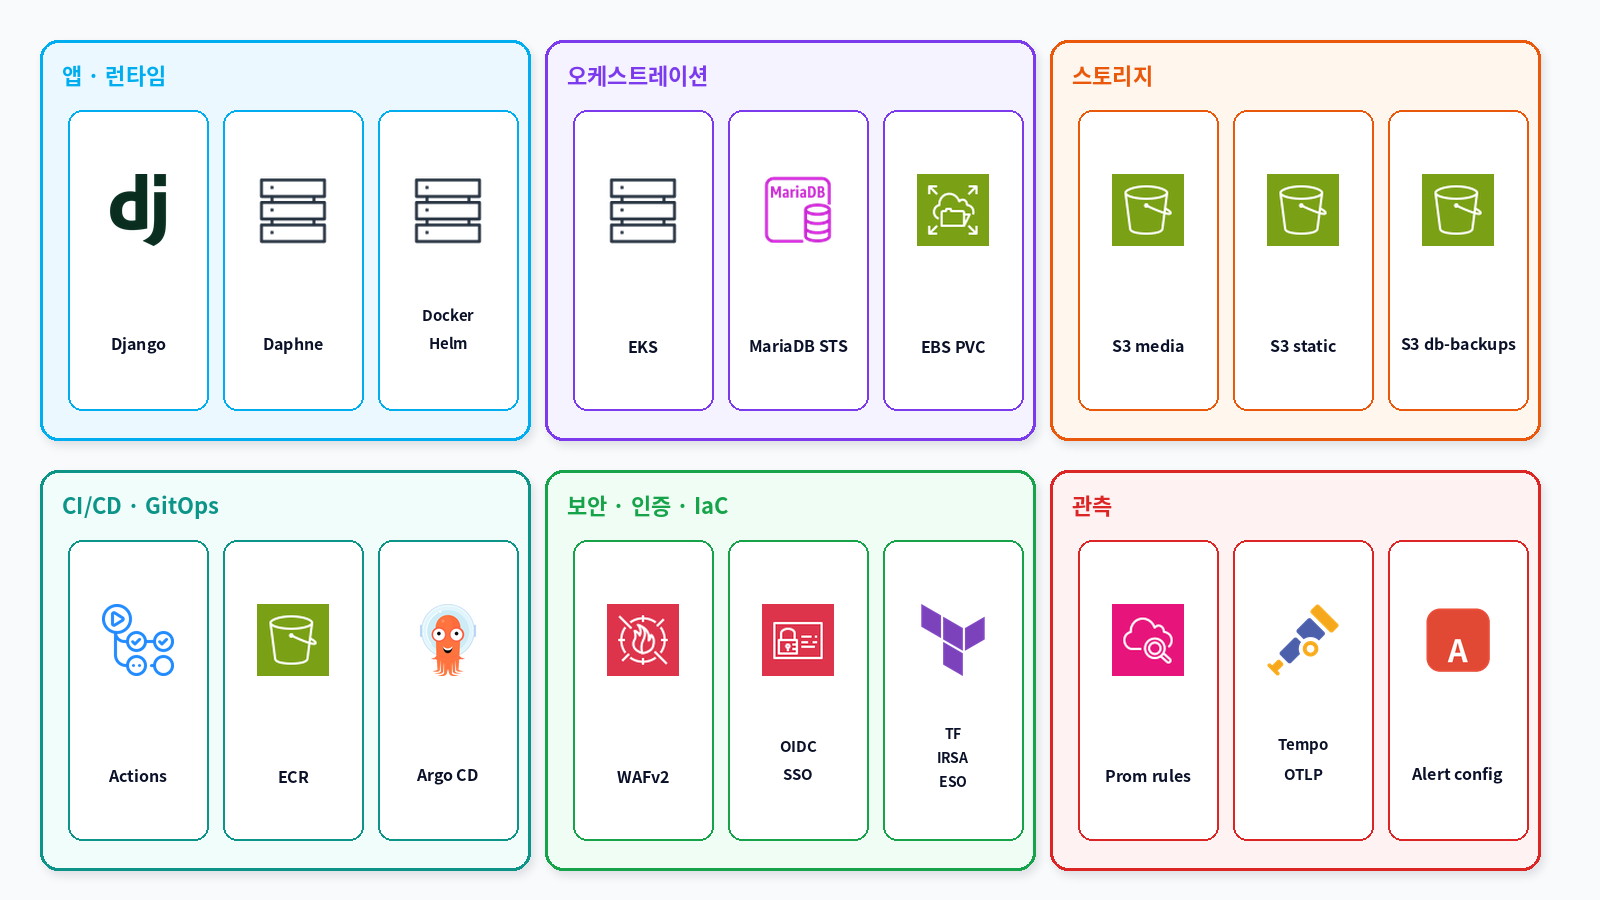
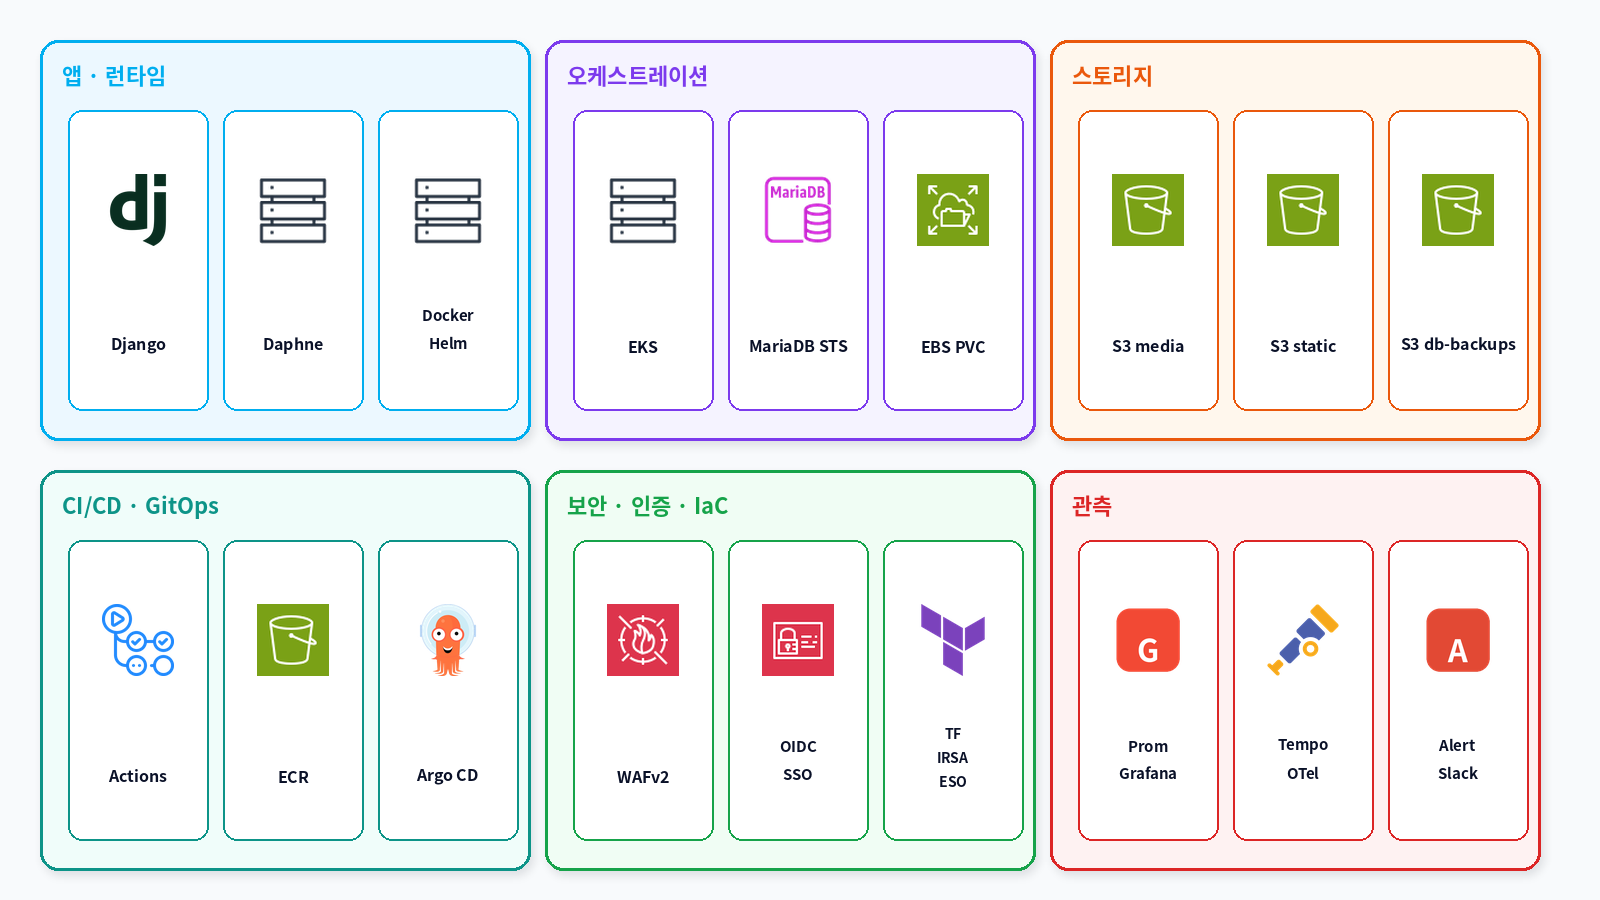
docs: restore verified observability outcomes

diff --git a/docs/presentation/make_aniverse_v1v2_ppt.py b/docs/presentation/make_aniverse_v1v2_ppt.py
@@ -299,7 +299,7 @@ def slide_v2_def(prs):
         (BLUE, "ALB · HTTPS · WAF", "ACM으로 HTTPS를 적용하고, ALB 앞 WAF에서 공격 요청과 과도한 요청을 걸러냅니다."),
         (GREEN, "EKS web / db Pod", "Django·Daphne는 Deployment로, MariaDB는 StatefulSet과 PVC로 운영합니다."),
         (ORANGE, "Actions → ECR → Argo", "OIDC로 이미지를 올리고, Git의 이미지 태그를 기준으로 Argo CD가 배포합니다."),
-        (PURPLE, "백업 · 관측", "DB는 S3에 백업하고, Prometheus·Loki·Tempo 설정으로 관측 경로를 구성했습니다."),
+        (PURPLE, "백업 · 관측", "DB는 S3에 백업하고, Prometheus·Loki·Tempo 데이터를 Grafana에서 확인했습니다."),
     ]
     for i, (color, title, body) in enumerate(feats):
         col, row = i % 2, i // 2
@@ -396,8 +396,8 @@ def slide_verify(prs):
         ("DB 데이터", "복구 후 목록 데이터 표시", "테이블 수 · 시드 행", "확인"),
         ("GitOps", "Git 태그와 배포 이미지 일치", "Actions · Argo CD", "확인"),
         ("미디어", "재구축 후 이미지 정상 표시", "S3 media 경로", "확인"),
-        ("관측", "로그·트레이스 전송 경로", "Loki · Tempo values", "구성"),
-        ("알림", "AlertManager Slack receiver", "설정 파일 · Secret", "구성"),
+        ("관측", "메트릭·로그·트레이스 조회", "Grafana · Loki · Tempo", "확인"),
+        ("알림", "AlertManager 알림 수신", "Slack 채널", "확인"),
     ]
     for i, (t, check, method, result) in enumerate(items):
         col, row = i % 3, i // 3
@@ -451,7 +451,7 @@ def slide_next(prs):
                 "시드 검증·운영 런북 자동화",
                 "계정 이관 체크리스트 정리",
                 "부하 병목(/works 지연)·Redis Timeout 해소",
-                "트레이스 수집 재검증 후 성능 개선으로 연결",
+                "Tempo로 찾은 병목을 성능 개선으로 연결",
             ],
         ),
     ]
@@ -484,8 +484,8 @@ def slide_load_trace(prs):
             "확인한 성과",
             [
                 "HPA로 web 파드 2 → 4 확장 확인",
-                "Django OTLP → Tempo 전송 경로 구성",
-                "AlertManager Slack receiver 구성",
+                "Tempo/Grafana 실제 요청 트레이스 조회",
+                "AlertManager → Slack 알림 수신",
             ],
         ),
         (
@@ -493,17 +493,17 @@ def slide_load_trace(prs):
             "발견한 병목",
             [
                 "/works/ 응답 최대 약 2.91초 (팀 측정)",
-                "수동 span은 Tempo 도달 · HTTP trace는 0건",
-                "ASGI extra 누락 원인 파악 후 보완",
+                "Tempo 트레이스로 병목 구간 확인",
+                "ASGI extra 보완 후 실제 trace 확인",
             ],
         ),
         (
             RED,
             "남은 과제",
             [
-                "보완 후 실제 HTTP trace 재검증",
                 "Redis TimeoutError 수정 후 재검증",
                 "병목 구간 쿼리·캐시 최적화",
+                "부하 시나리오와 WAF 한도 정합",
             ],
         ),
     ]
@@ -655,7 +655,7 @@ def slide_qa(prs):
     )
     add_para(
         roles.text_frame,
-        "강유민 — 서비스 UI · 콘텐츠 (커뮤니티 · 장터 · 창작)",
+        "강유민 — 창작마당 · Compute 파트",
         16,
         False,
         RGBColor(226, 232, 240),

diff --git a/docs/presentation/make_hybrid_diagrams.py b/docs/presentation/make_hybrid_diagrams.py
@@ -314,7 +314,7 @@ def make_roles():
     img = Image.new("RGBA", (W, H), BG + (255,))
     panels = [
         (50, CYAN, SOFT_BLUE, "Network / Compute", "서이 등", ["EKS · VPC", "Ingress / ALB", "노드 · NAT"], "vpc"),
-        (420, TEAL, SOFT_TEAL, "Container / DB / Observability", "윤주", ["Docker · Helm", "DB Pod · Backup", "Loki · Tempo 설정"], "rds_maria"),
+        (420, TEAL, SOFT_TEAL, "Container / DB / Observability", "윤주", ["Docker · Helm", "DB Pod · Backup", "Prom / Grafana / Loki"], "rds_maria"),
         (790, ORANGE, SOFT_ORANGE, "DevOps / GitOps", "현우", ["Actions · ECR", "Argo CD", "OIDC · 이관 복구"], "githubactions"),
         (1160, PURPLE, SOFT_PURPLE, "App / Product", "팀", ["Aniverse 서비스", "장터 · 창작", "커뮤니티"], "django"),
     ]
@@ -401,16 +401,16 @@ def make_observability():
     tile(img, 40, 180, 260, 400, "django", "EKS Pods", "web / db", CYAN, SOFT_BLUE, 64)
     tile(img, 350, 100, 260, 220, "cloudwatch", "Prometheus", "metrics", ORANGE, SOFT_ORANGE, 56)
     tile(img, 350, 360, 260, 220, "cloudwatch", "Loki + Alloy", "logs", TEAL, SOFT_TEAL, 56)
-    tile(img, 660, 180, 280, 400, "server", "Values", "manual deploy", GREEN, SOFT_GREEN, 72)
+    tile(img, 660, 180, 280, 400, "grafana", "Grafana", "dashboards", GREEN, SOFT_GREEN, 72)
     tile(img, 990, 100, 260, 220, "tempo", "Tempo · OTel", "traces", PURPLE, SOFT_PURPLE, 56)
     tile(img, 990, 360, 260, 220, "alertmanager", "AlertManager", "Slack", RED, SOFT_RED, 56)
     soft_card(img, (1280, 180, 1560, 580), r=18, fill=SOFT_BLUE, shadow=False)
     d = ImageDraw.Draw(img)
     d.rounded_rectangle((1280, 180, 1560, 580), radius=18, outline=CYAN, width=3)
-    center_text(d, "구성 범위", 1420, 280, fnt(26, True), CYAN)
+    center_text(d, "확인 결과", 1420, 280, fnt(26, True), CYAN)
     center_text(d, "메트릭·로그", 1420, 360, fnt(18), NAVY)
-    center_text(d, "Tempo 전송", 1420, 420, fnt(18), NAVY)
-    center_text(d, "Slack receiver", 1420, 480, fnt(18), NAVY)
+    center_text(d, "실제 trace 조회", 1420, 420, fnt(18), NAVY)
+    center_text(d, "Slack 알림 수신", 1420, 480, fnt(18), NAVY)
     d = ImageDraw.Draw(img)
     arrow_h(d, 300, 320, 350, NAVY)
     arrow_h(d, 300, 520, 350, NAVY)
@@ -502,9 +502,9 @@ def make_tech_stack_v2():
             RED,
             SOFT_RED,
             [
-                ("cloudwatch", "Prom rules"),
-                ("tempo", "Tempo · OTLP"),
-                ("alertmanager", "Alert config"),
+                ("grafana", "Prom · Grafana"),
+                ("tempo", "Tempo · OTel"),
+                ("alertmanager", "Alert · Slack"),
             ],
         ),
     ]

diff --git a/docs/presentation/make_hybrid_ppt.py b/docs/presentation/make_hybrid_ppt.py
@@ -212,7 +212,7 @@ def agenda(prs):
         ("02", "아키텍처 v1 · v2 · 왜 EKS"),
         ("03", "랩 → EKS 경로 · 워크로드"),
         ("04", "GitOps · 데이터 백업/복구"),
-        ("05", "관측 설정 (Prom rules / Loki / Tempo)"),
+        ("05", "관측 (Prom / Grafana / Loki / Tempo)"),
         ("06", "전환 이슈 · 계정 Block / 이관"),
         ("07", "Before / After · 다음"),
     ]
@@ -319,7 +319,7 @@ def data(prs):
 
 def observability(prs):
     s = blank(prs)
-    header(s, "5. 관측", "values·규칙 구성: Prometheus · Loki/Alloy · Tempo · AlertManager")
+    header(s, "5. 관측", "운영 확인: Grafana 조회 · 실제 요청 trace · AlertManager Slack 알림")
     put_img(s, "hybrid_07_observability.png")
     footer(s, 12)
 
@@ -392,7 +392,7 @@ def before_after(prs):
         "EKS + Argo CD",
         "DB Pod + PVC · SQL/CronJob 백업",
         "Actions → ECR → GitOps",
-        "Prom rules · Loki · Tempo 설정",
+        "Grafana · Loki · Tempo 관측",
     ]:
         add_para(right.text_frame, "·  " + line, 18, False, BODY, 18)
     footer(s, 16)

diff --git a/docs/presentation/SPEAKER_NOTES_V1V2.md b/docs/presentation/SPEAKER_NOTES_V1V2.md
@@ -17,7 +17,7 @@ PPT: `ppt/Aniverse_V1V2_발표_working.pptx`
 | 7 | V2 상세 ① | DB Pod, 배포 이미지 태그, 재구축 후 데이터 복구 |
 | 8 | V2 상세 ② | Zero-Key(OIDC·SSO) · WAF · DNS 유지 · 이관 한 줄 |
 | 9 | 검증 기준 | 확인/구성 기준 설명 · Tempo 포함 |
-| 10 | 기술 스택 | Argo 아이콘 · Prom rules/Tempo OTLP/Alert 설정 · TF·IRSA·ESO |
+| 10 | 기술 스택 | Argo 아이콘 · Prom/Grafana/Tempo/Alert · TF·IRSA·ESO |
 | 11 | 데이터 흐름 | PVC vs S3 · 시드(Git SQL) / 주기 백업(S3) 경로 |
 | 12 | 앞으로 보완할 점 | 트레이싱은 성과로 이동 · 발표·시연 칸 삭제 |
 | 13 | 부하 · 트레이싱 | HPA 2→4 · /works 병목 · Redis Timeout 재검증 |
@@ -37,7 +37,7 @@ PPT: `ppt/Aniverse_V1V2_발표_working.pptx`
 
 ## 13–16장 발표 멘트
 
-**13장 · 부하테스트·트레이싱** — 부하테스트에서 web 파드가 2개에서 4개로 늘어나는 것을 확인했습니다. 팀 측정에서 `/works/` 응답은 최대 약 2.91초였습니다. 수동 span은 Tempo에 도달했지만 실제 HTTP trace는 0건이어서 ASGI extra 누락을 보완했습니다. 실제 요청 trace와 Redis TimeoutError 재발 여부는 같은 부하 조건에서 다시 확인해야 합니다.
+**13장 · 부하테스트·트레이싱** — 부하테스트에서 web 파드가 2개에서 4개로 늘어나는 것을 확인했습니다. 팀 측정에서 `/works/` 응답은 최대 약 2.91초였고, ASGI extra를 보완한 뒤 Grafana에서 실제 요청 trace를 조회했습니다. AlertManager의 Slack 알림 수신도 확인했으며, Redis TimeoutError는 의존성 수정 후 같은 부하 조건에서 재검증할 예정입니다.
 **14장 · 현우** — 중지 검증, Argo Missing(SSA), 시드 행 검증  
 **15장 · 서이** — HPA replicas 충돌, Terraform 생성 순서, DB 비밀번호 로테이션  
 **16장 · 윤주** — 백업 0바이트, Alloy max-pods, Slack 웹훅
@@ -47,4 +47,4 @@ PPT: `ppt/Aniverse_V1V2_발표_working.pptx`
 - 김현우 — GitOps·CI/CD
 - 박서이 — EKS·네트워크·보안
 - 김윤주 — 컨테이너·DB·관측
-- 강유민 — 서비스 UI·콘텐츠
+- 강유민 — 창작마당·Compute 파트

diff --git a/docs/presentation/CONTENT_V1V2_working.md b/docs/presentation/CONTENT_V1V2_working.md
@@ -20,7 +20,7 @@
 | 7 | Architecture V2 · 배포와 데이터 | 3행 | DB Pod · sha 태그 · 시드 |
 | 8 | Architecture V2 · 보안과 DNS | 3행 | Zero-Key(OIDC·SSO) · WAF · DNS · 이관 한 줄 |
 | 9 | 기능 · 운영 검증 기준 | 6카드 | 확인/구성 기준 설명 |
-| 10 | 기술 스택 · V2 | **이미지** | Prom rules/Tempo OTLP/Alert 설정/ESO |
+| 10 | 기술 스택 · V2 | **이미지** | Prom/Grafana/Tempo/Alert/ESO |
 | 11 | 데이터 흐름 · V2 | **이미지** | `hybrid_10_data_flow.png` |
 | 12 | 앞으로 보완할 점 | 2열 | 트레이싱은 성과로 이동 · 발표·시연 칸 제거 |
 | 13 | 부하테스트 · 트레이싱 | 3열 | HPA 2→4 · /works 병목 · Redis Timeout |
@@ -45,9 +45,9 @@
 - 완성도: 런북 · 이관 체크리스트 · /works 병목·Redis Timeout 해소
 
 ### 13. 부하 · 트레이싱
-- 확인: HPA 2→4, Django OTLP→Tempo 경로, AlertManager Slack receiver 구성
-- 발견: /works 최대 ~2.91초(팀 측정), 수동 span 도달·HTTP trace 0건, ASGI extra 누락 보완
-- 과제: 실제 HTTP trace·Redis TimeoutError 재검증
+- 확인: HPA 2→4, Grafana에서 실제 요청 trace 조회, AlertManager Slack 알림 수신
+- 발견: /works 최대 ~2.91초(팀 측정), Tempo 병목 구간, ASGI extra 누락 보완
+- 과제: Redis TimeoutError 수정 후 재검증
 
 ### 15. 트러블슈팅 · EKS (서이)
 - HPA replicas 충돌 (9/15)
